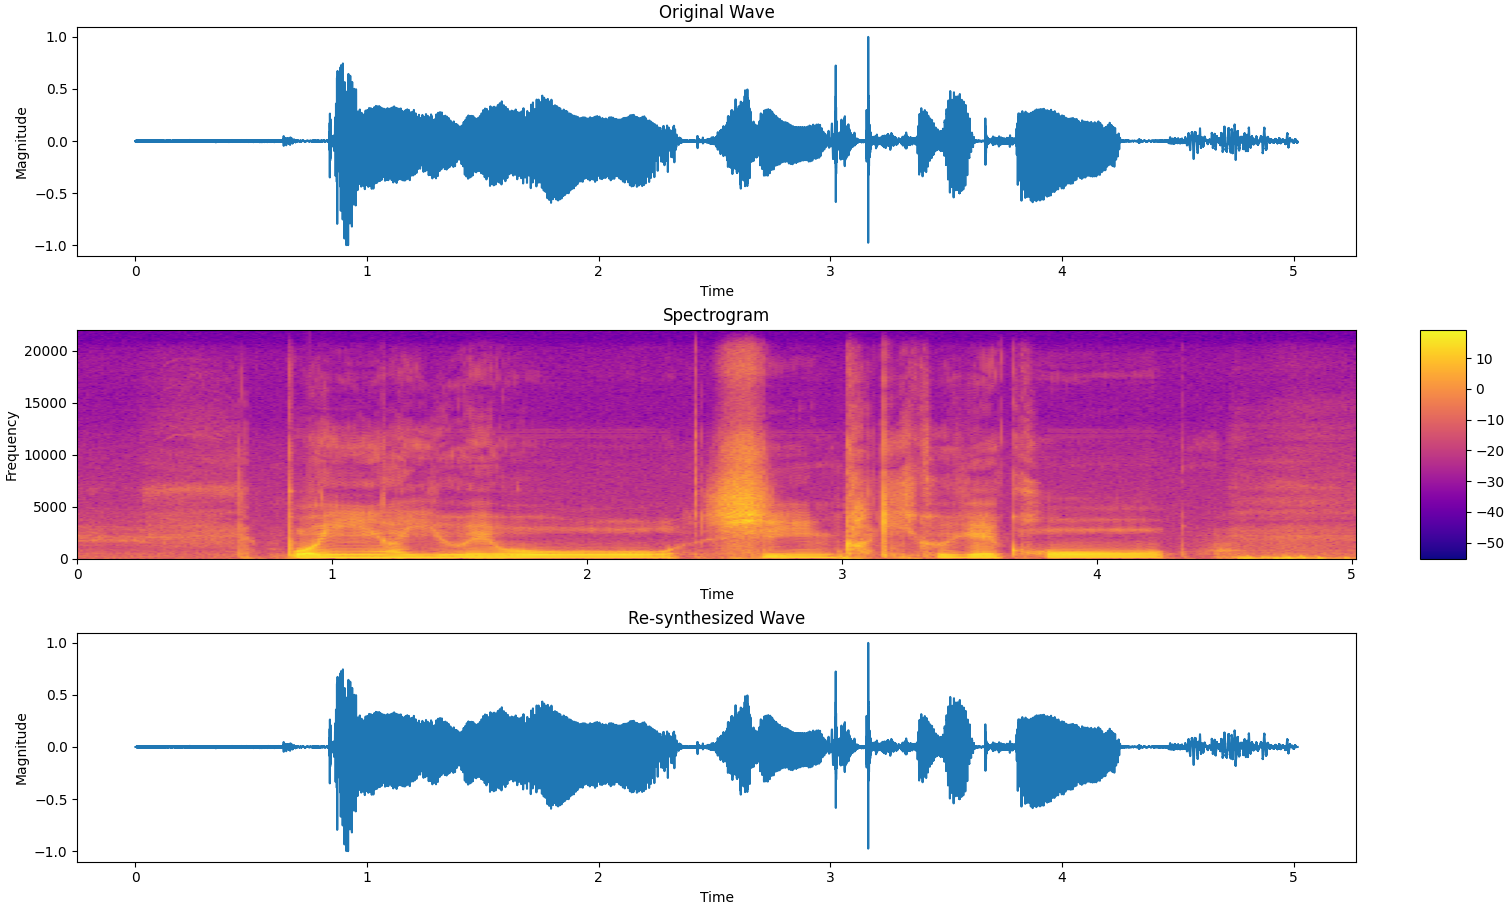
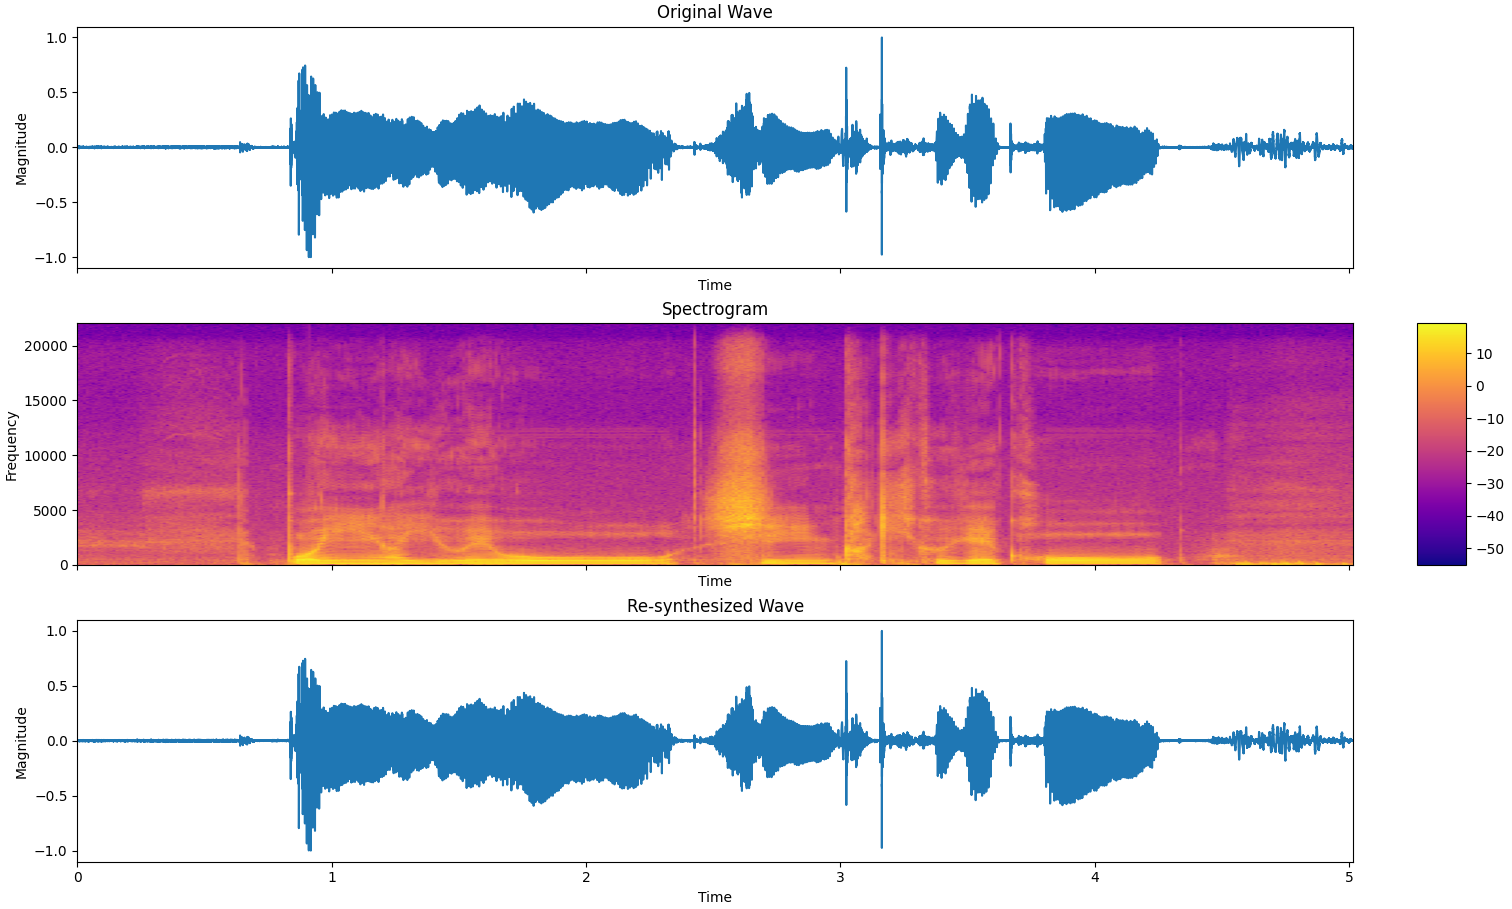
レビューを受けてコードを修正

diff --git a/ex1/b4_imamura/main.py b/ex1/b4_imamura/main.py
@@ -18,7 +18,7 @@ def main():
 
     # 音源波形を表示
     time = np.arange(0, len(sample_data)) / sample_rate
-    fig, ax = plt.subplots(3, 1, layout="constrained")
+    fig, ax = plt.subplots(3, 1, layout="constrained", sharex=True)
     ax[0].set_title("Original Wave")
     ax[0].plot(time, sample_data)
     ax[0].set_xlabel("Time")
